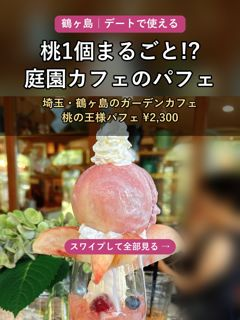
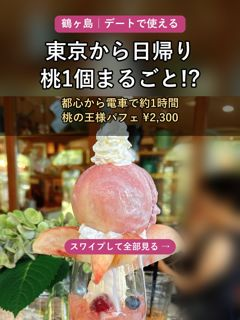
Update shops link page

Changed region(s): [[0.0875, 0.125, 0.9042, 0.3438]]

diff --git a/shops/index.html b/shops/index.html
@@ -16,10 +16,10 @@ h1{font-size:1.35rem;margin:.2em 0}h2{font-size:1.15rem;margin:28px 0 6px}h3{fon
 footer{color:var(--muted);font-size:.78rem;margin-top:24px}footer a{color:inherit}
 </style></head><body><main>
 <h1>東京グルメ で紹介したお店</h1>
-<p class="meta">実際に行ったお店だけを載せています。最終更新: 2026-09-27</p>
+<p class="meta">実際に行ったお店だけを載せています。最終更新: 2026-09-28</p>
 <p class="pr">【PR】このページには広告（アフィリエイトリンク）が含まれます。「PR」と付いたボタンから予約・購入されると、運営者に紹介料が支払われることがあります。お客様の料金は変わりません。価格や営業時間は変わることがあるため、最新情報は各サイトでご確認ください。Amazonのアソシエイトとして、当サイトは適格販売により収入を得ています。</p>
 <div class="filters"><button aria-pressed="true" data-f="">すべて</button><button aria-pressed="false" data-f="cospa">コスパ最強</button><button aria-pressed="false" data-f="date">デートで使える</button><button aria-pressed="false" data-f="enkai">宴会・会食</button></div>
-<article class="card" data-theme="date"><img src="img/sushihana-shimbashi.jpg" alt="" loading="lazy"><div class="body"><div class="name">新橋 すし華</div><div class="meta">新橋｜ディナー15000～19999円</div><span class="tag" style="background:#C2407A">デートで使える</span><div class="meta">記念日向け江戸前鮨</div><div class="btns"><a class="" href="https://hitosara.com/0031533825/" target="_blank" rel="noopener">お店の情報を見る</a></div></div></article><article class="card" data-theme="date"><img src="img/ashura-suidobashi.jpg" alt="" loading="lazy"><div class="body"><div class="name">水道橋 阿酒羅</div><div class="meta">水道橋｜ディナー4000～4999円</div><span class="tag" style="background:#C2407A">デートで使える</span><div class="meta">隠れ家居酒屋 旬の野菜の炊き物</div><div class="btns"><a class="" href="https://www.hotpepper.jp/strJ003671393/" target="_blank" rel="noopener">お店の情報を見る</a></div></div></article><article class="card" data-theme="cospa"><img src="img/mirakutei-nishinippori.jpg" alt="" loading="lazy"><div class="body"><div class="name">味楽亭</div><div class="meta">新三河島｜～5000円</div><span class="tag" style="background:#E8442E">コスパ最強</span><div class="meta">創業60年以上の老舗焼肉 ホルモン</div><div class="btns"><a class="" href="https://www.hotpepper.jp/strJ000147839/" target="_blank" rel="noopener">お店の情報を見る</a></div></div></article><article class="card" data-theme="date"><img src="img/kopkhun-tiger-shibuya.jpg" alt="" loading="lazy"><div class="body"><div class="name">コップンタイガー</div><div class="meta">渋谷｜ディナー3001～4000円</div><span class="tag" style="background:#C2407A">デートで使える</span><div class="meta">タイ料理</div><div class="btns"><a class="" href="https://www.hotpepper.jp/strJ003931000/" target="_blank" rel="noopener">お店の情報を見る</a></div></div></article><article class="card" data-theme="cospa"><img src="img/naima-yoyogiuehara.jpg" alt="" loading="lazy"><div class="body"><div class="name">喫茶バー ナイマ</div><div class="meta">代々木上原｜ランチ1100～1500円</div><span class="tag" style="background:#E8442E">コスパ最強</span><div class="meta">レトロ喫茶 モザイクタイル 動画撮影NG</div><div class="btns"><a class="" href="https://tabelog.com/tokyo/A1318/A131811/13096668/" target="_blank" rel="noopener">お店の情報を見る</a></div></div></article><article class="card" data-theme="cospa"><img src="img/torijaya-bettei.jpg" alt="" loading="lazy"><div class="body"><div class="name">別亭 鳥茶屋</div><div class="meta">飯田橋｜ランチ1250～1890円</div><span class="tag" style="background:#E8442E">コスパ最強</span><div class="meta">料亭ランチ 親子丼 うどんすき</div><div class="btns"><a class="" href="https://hitosara.com/0006024074/lunch.html" target="_blank" rel="noopener">お店の情報を見る</a></div></div></article><article class="card" data-theme="date"><img src="img/hinatoriyama-hachioji.jpg" alt="" loading="lazy"><div class="body"><div class="name">いろり焼 ひな鳥山</div><div class="meta">北野｜4001～5000円</div><span class="tag" style="background:#C2407A">デートで使える</span><div class="meta">舟で料理が届く 掘りごたつ個室21室</div><div class="btns"><a class="" href="https://www.hotpepper.jp/strJ001232932/" target="_blank" rel="noopener">お店の情報を見る</a></div></div></article><article class="card" data-theme="date"><img src="img/greenfinger-tsurugashima.jpg" alt="" loading="lazy"><div class="body"><div class="name">Greenfinger Cafe</div><div class="meta">一本松｜パフェ2300円 ランチ2200円</div><span class="tag" style="background:#C2407A">デートで使える</span><div class="meta">桃1個まるごとの桃の王様パフェ ガーデンカフェ</div><div class="btns"><a class="" href="https://www.greenfinger.jp/cafe/" target="_blank" rel="noopener">お店の情報を見る</a></div></div></article>
+<article class="card" data-theme="date"><img src="img/sushihana-shimbashi.jpg" alt="" loading="lazy"><div class="body"><div class="name">新橋 すし華</div><div class="meta">新橋｜ディナー15000～19999円</div><span class="tag" style="background:#C2407A">デートで使える</span><div class="meta">記念日向け江戸前鮨</div><div class="btns"><a class="" href="https://hitosara.com/0031533825/" target="_blank" rel="noopener">お店の情報を見る</a></div></div></article><article class="card" data-theme="date"><img src="img/ashura-suidobashi.jpg" alt="" loading="lazy"><div class="body"><div class="name">水道橋 阿酒羅</div><div class="meta">水道橋｜ディナー4000～4999円</div><span class="tag" style="background:#C2407A">デートで使える</span><div class="meta">隠れ家居酒屋 旬の野菜の炊き物</div><div class="btns"><a class="" href="https://www.hotpepper.jp/strJ003671393/" target="_blank" rel="noopener">お店の情報を見る</a></div></div></article><article class="card" data-theme="cospa"><img src="img/mirakutei-nishinippori.jpg" alt="" loading="lazy"><div class="body"><div class="name">味楽亭</div><div class="meta">新三河島｜～5000円</div><span class="tag" style="background:#E8442E">コスパ最強</span><div class="meta">創業60年以上の老舗焼肉 ホルモン</div><div class="btns"><a class="" href="https://www.hotpepper.jp/strJ000147839/" target="_blank" rel="noopener">お店の情報を見る</a></div></div></article><article class="card" data-theme="date"><img src="img/kopkhun-tiger-shibuya.jpg" alt="" loading="lazy"><div class="body"><div class="name">コップンタイガー</div><div class="meta">渋谷｜ディナー3001～4000円</div><span class="tag" style="background:#C2407A">デートで使える</span><div class="meta">タイ料理</div><div class="btns"><a class="" href="https://www.hotpepper.jp/strJ003931000/" target="_blank" rel="noopener">お店の情報を見る</a></div></div></article><article class="card" data-theme="cospa"><img src="img/naima-yoyogiuehara.jpg" alt="" loading="lazy"><div class="body"><div class="name">喫茶バー ナイマ</div><div class="meta">代々木上原｜ランチ1100～1500円</div><span class="tag" style="background:#E8442E">コスパ最強</span><div class="meta">レトロ喫茶 モザイクタイル 動画撮影NG</div><div class="btns"><a class="" href="https://tabelog.com/tokyo/A1318/A131811/13096668/" target="_blank" rel="noopener">お店の情報を見る</a></div></div></article><article class="card" data-theme="cospa"><img src="img/torijaya-bettei.jpg" alt="" loading="lazy"><div class="body"><div class="name">別亭 鳥茶屋</div><div class="meta">飯田橋｜ランチ1250～1890円</div><span class="tag" style="background:#E8442E">コスパ最強</span><div class="meta">料亭ランチ 親子丼 うどんすき</div><div class="btns"><a class="" href="https://hitosara.com/0006024074/lunch.html" target="_blank" rel="noopener">お店の情報を見る</a></div></div></article><article class="card" data-theme="date"><img src="img/hinatoriyama-hachioji.jpg" alt="" loading="lazy"><div class="body"><div class="name">いろり焼 ひな鳥山</div><div class="meta">北野｜4001～5000円</div><span class="tag" style="background:#C2407A">デートで使える</span><div class="meta">舟で料理が届く 掘りごたつ個室21室</div><div class="btns"><a class="" href="https://www.hotpepper.jp/strJ001232932/" target="_blank" rel="noopener">お店の情報を見る</a></div></div></article><article class="card" data-theme="date"><img src="img/greenfinger-tsurugashima.jpg" alt="" loading="lazy"><div class="body"><div class="name">Greenfinger Cafe</div><div class="meta">一本松｜パフェ2300円 ランチ2200円</div><span class="tag" style="background:#C2407A">デートで使える</span><div class="meta">桃1個まるごとの桃の王様パフェ ガーデンカフェ</div><div class="btns"><a class="" href="https://www.greenfinger.jp/cafe/" target="_blank" rel="noopener">お店の情報を見る</a></div></div></article><article class="card" data-theme="date"><img src="img/qwan-gakudai.jpg" alt="" loading="lazy"><div class="body"><div class="name">QWAN (クワン)</div><div class="meta">学芸大学｜1品400～1450円</div><span class="tag" style="background:#C2407A">デートで使える</span><div class="meta">予約必須級の隠れ家ビストロ 手書きメニュー</div><div class="btns"><a class="" href="https://tabelog.com/tokyo/A1317/A131702/13214030/" target="_blank" rel="noopener">お店の情報を見る</a></div></div></article><article class="card" data-theme="date"><img src="img/hitohira-gakudai.jpg" alt="" loading="lazy"><div class="body"><div class="name">ひとひら 学芸大学店</div><div class="meta">学芸大学｜要確認</div><span class="tag" style="background:#C2407A">デートで使える</span><div class="meta">駅1分 旬魚とおばんざい レトロモダン</div><div class="btns"><a class="" href="https://tabelog.com/tokyo/A1317/A131702/13195739/" target="_blank" rel="noopener">お店の情報を見る</a></div></div></article><article class="card" data-theme="enkai"><img src="img/dressgrape-shibuya.jpg" alt="" loading="lazy"><div class="body"><div class="name">DRESS GRAPE 渋谷</div><div class="meta">渋谷｜6001～8000円</div><span class="tag" style="background:#2F5D8C">宴会・会食</span><div class="meta">渋谷駅5分 ワインに合う大人ビストロ</div><div class="btns"><a class="" href="https://www.hotpepper.jp/strJ001258631/" target="_blank" rel="noopener">お店の情報を見る</a></div></div></article>
 
 <footer><a href="../privacy.html">プライバシーポリシー</a> ・ <a href="../terms.html">利用規約</a></footer>
 </main><script>
